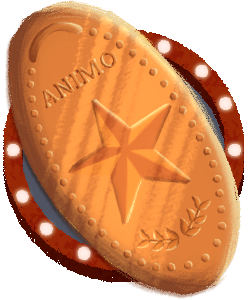
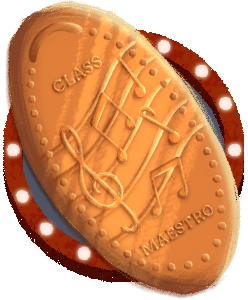
Add files via upload

diff --git a/index.html b/index.html
@@ -42,9 +42,9 @@
         <div class="overlay end-screen" id="pass-end-screen">
             <img src="ASSETS/token.png" class="token-img">
             <div class="end-message">Congratulations! You have earned the</div>
-            <div class="end-title"> ANIMO BENILDEAN BADGE!</div>
-            <div class="end-message"> The secret code for the next Act is <b>BENILDEAN!</b> The show has ended and you can click the button below to head back to the tent!</div>
-            <button class="menu-btn" id="menu-btn"><img class="menu-btn-img" src="ASSETS/menu-btn.png"></button>
+            <div class="end-title"> CLASS MAESTRO BADGE!</div>
+            <div class="end-message"> The secret code for the next Act is <b>NECESSITY!</b> The show has ended and you can click the button below to head back to the tent!</div>
+            <a href="https://interaktiv.benilde.edu.ph/?page_id=12809"><button class="menu-btn" id="menu-btn"><img class="menu-btn-img" src="ASSETS/menu-btn.png"></button></a>
         </div>
 
         <div class="overlay end-screen" id="fail-end-screen">
